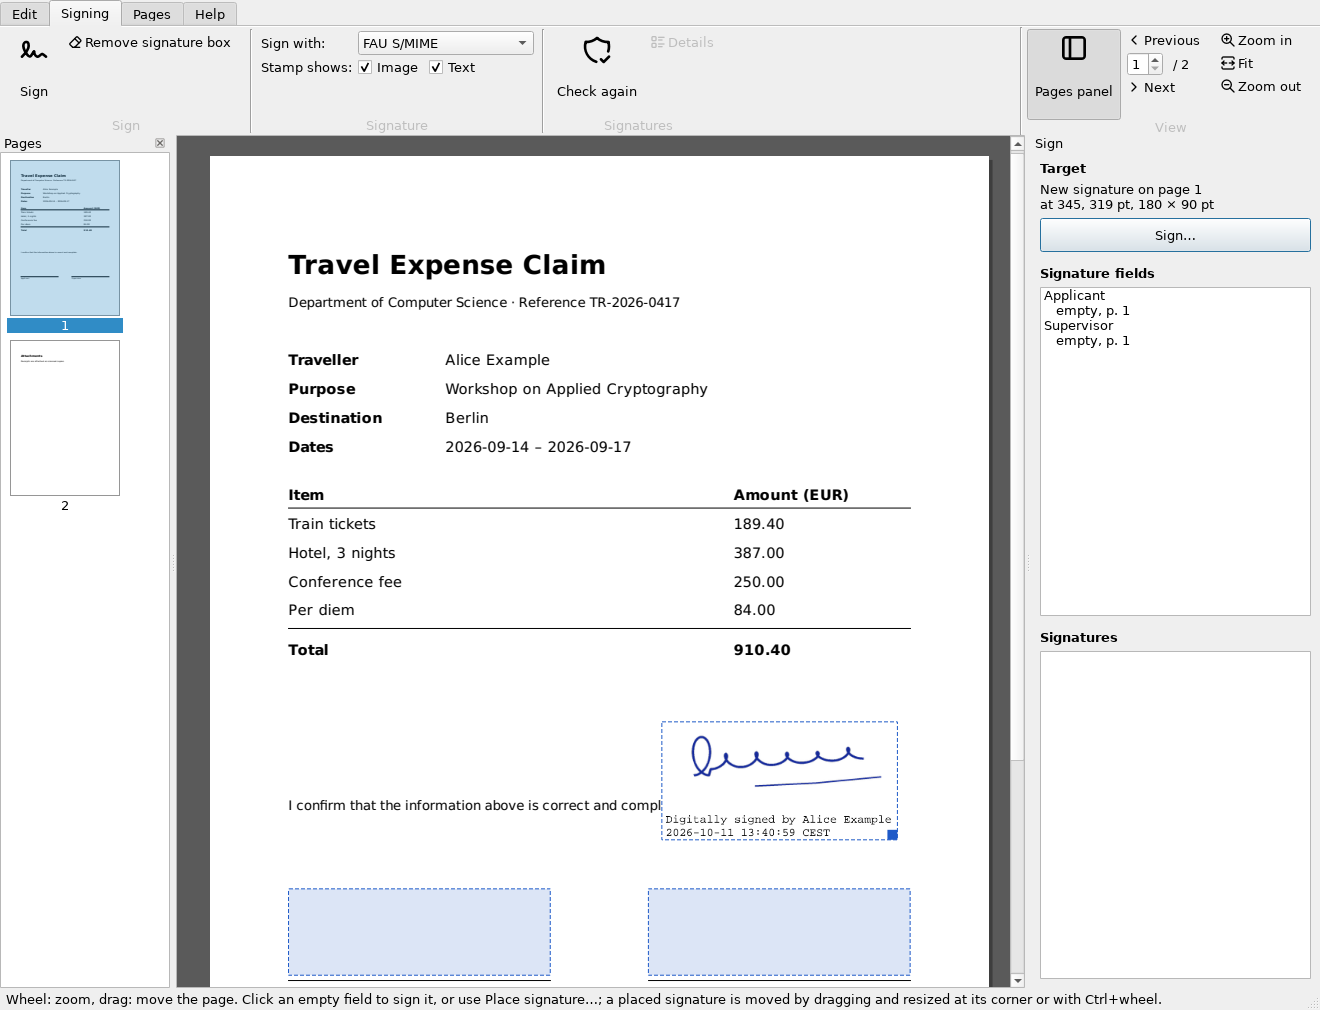
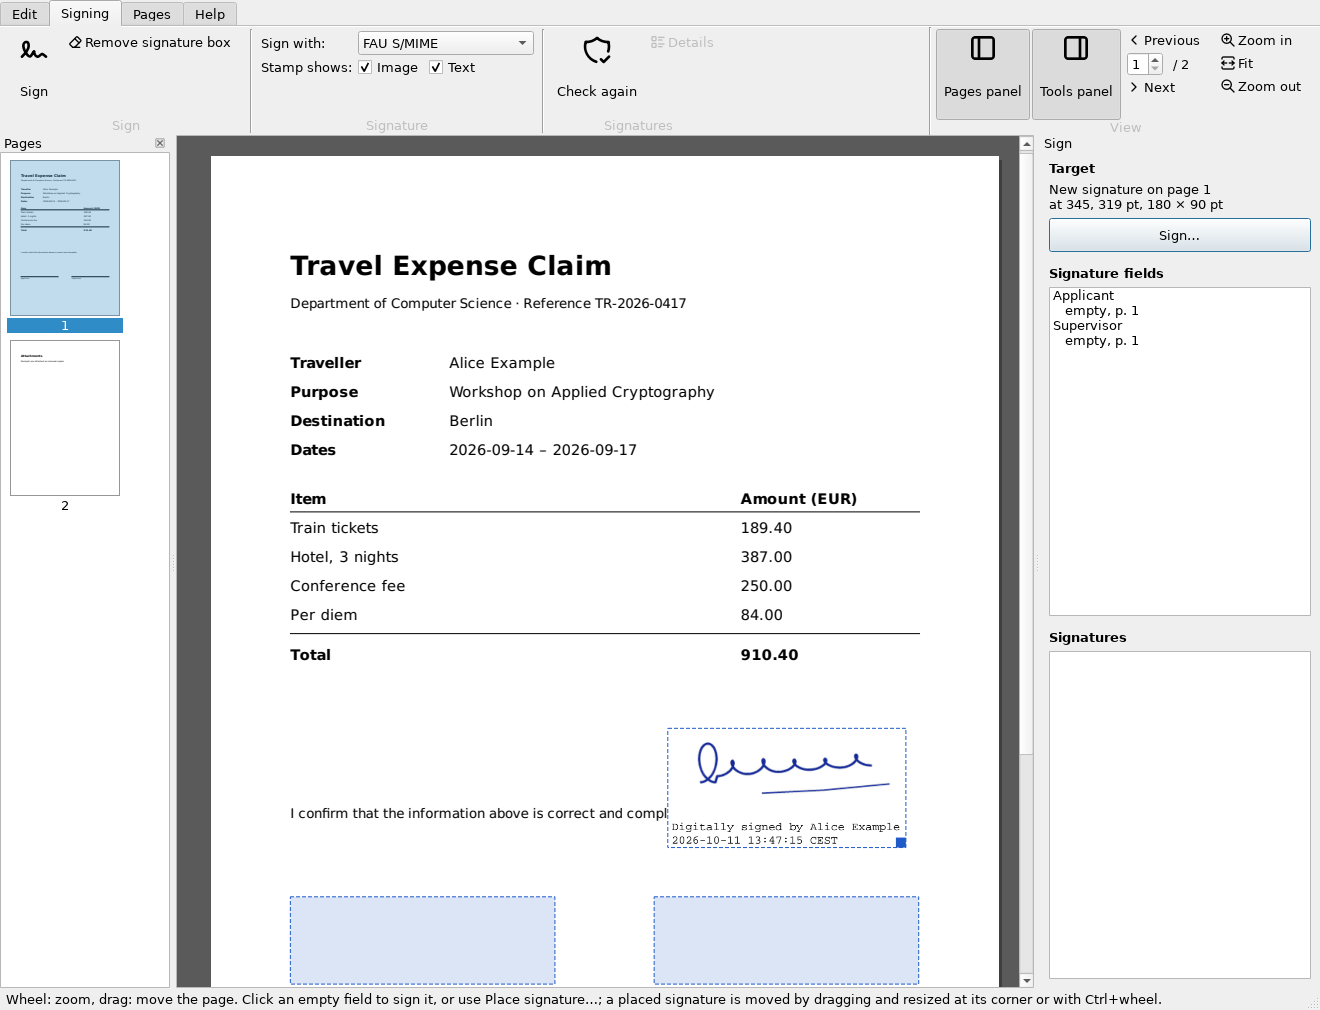
View: Tools panel toggle; both side panels on/off on their own
Next to Pages panel (left), the View group gets Tools panel (right: the
form on Edit, signing on Signing). Each can be hidden on its own, and
both choices are remembered for the next start (gui.json).

diff --git a/src/slim_pdf/gui/app.py b/src/slim_pdf/gui/app.py
@@ -460,17 +460,27 @@ class MainWindow(QMainWindow):
         panel.setIcon(ribbon.icon("layout-sidebar"))
         panel.setText(_("Pages panel"))
         panel.setToolTip(_("Show or hide the page thumbnails on the left"))
+        self.pages_dock.setVisible(state.flag("pages_panel"))
+        panel.toggled.connect(lambda on: state.set_flag("pages_panel", on))
+        # the right-hand panel (form, signing) on the tabs that have one
+        self.tools_panel_act = QAction(ribbon.icon("layout-sidebar-right"), _("Tools panel"),
+                                       self, checkable=True)
+        self.tools_panel_act.setToolTip(_("Show or hide the panel on the right (the form "
+                                          "on Edit, signing on Signing)"))
+        self.tools_panel_act.setChecked(state.flag("tools_panel"))
+        self.tools_panel_act.toggled.connect(self._tools_panel_toggled)
         spin = QWidget()  # the page number box with " / count"
         row = QHBoxLayout(spin)
         row.setContentsMargins(4, 0, 4, 0)
         row.addWidget(self.page_spin)
         row.addWidget(self.page_count)
-        rb.set_view_controls(_("View"), [panel], [
+        rb.set_view_controls(_("View"), [panel, self.tools_panel_act], [
             [self.prev_act, spin, self.next_act],
             [self.zoom_in_act, self.fit_act, self.zoom_out_act],
         ])
         rb.refit()
         rb.currentChanged.connect(self._ribbon_tab_changed)
+        self._ribbon_tab_changed(rb.currentIndex())  # the remembered panel choice
         self.setMenuWidget(rb)  # where the menu bar would be
 
     @staticmethod
@@ -592,9 +602,13 @@ class MainWindow(QMainWindow):
 
     SIDE_PANELS = {EDIT_TAB: N_("Form"), SIGN_TAB: N_("Sign")}  # ribbon tab -> panel title
 
+    def _tools_panel_toggled(self, on: bool) -> None:
+        state.set_flag("tools_panel", on)
+        self._ribbon_tab_changed(self.ribbon.currentIndex())
+
     def _ribbon_tab_changed(self, index: int) -> None:
         title = self.SIDE_PANELS.get(index)
-        self.side_dock.setVisible(title is not None)
+        self.side_dock.setVisible(title is not None and self.tools_panel_act.isChecked())
         if index != EDIT_TAB:  # a form field is marked only while the form is edited
             self.view.highlight_form_field(None)
         if title is not None:

diff --git a/tests/test_gui_tabs.py b/tests/test_gui_tabs.py
@@ -143,3 +143,31 @@ def test_drop_pdf_files_onto_the_window(window, tmp_path, qapp):
                             Qt.LeftButton, Qt.NoModifier)
     window.dragEnterEvent(enter)
     assert not enter.isAccepted()
+
+
+def test_side_panels_can_be_hidden_independently(window, fill_pdf, qapp, profile):
+    """View: Pages panel (left) and Tools panel (right) are shown or hidden
+    on their own; the choice is remembered for the next start."""
+    from slim_pdf.config import Config
+
+    window.open(fill_pdf)
+    left, right = window.pages_dock, window.side_dock
+    assert left.isVisible() and right.isVisible()  # Edit: the form panel
+    window.tools_panel_act.trigger()
+    assert left.isVisible() and not right.isVisible()
+    window.show_tab(gui_app.SIGN_TAB)  # hidden on Signing too
+    assert not right.isVisible()
+    window.pages_dock.toggleViewAction().trigger()
+    assert not left.isVisible() and not right.isVisible()
+    window.tools_panel_act.trigger()
+    assert not left.isVisible() and right.isVisible()
+    window.show_tab(2)  # Pages: no tools panel there anyway
+    assert not right.isVisible()
+    window.show_tab(gui_app.EDIT_TAB)
+    window.tools_panel_act.trigger()  # off again, then a new window remembers
+    other = gui_app.MainWindow(Config(certs={"alice": profile}, default="alice"))
+    other.show()
+    qapp.processEvents()
+    assert not other.tools_panel_act.isChecked() and not other.side_dock.isVisible()
+    assert not other.pages_dock.isVisible()
+    other.close()

diff --git a/src/slim_pdf/gui/state.py b/src/slim_pdf/gui/state.py
@@ -1,5 +1,5 @@
-"""What the GUI remembers between runs that isn't a setting: for now, the
-folder of the last opened file. A small JSON file in the user state folder
+"""What the GUI remembers between runs that isn't a setting: the folder of
+the last opened file, and whether the side panels are shown. A small JSON file in the user state folder
 (``$SLIM_PDF_STATE_DIR`` overrides it); unreadable or missing means "nothing
 remembered", and failing to write it is ignored."""
 
@@ -43,4 +43,17 @@ def last_folder() -> str:
 def remember_folder(folder: Path) -> None:
     data = _load()
     data["last_folder"] = str(Path(folder).resolve())
+    _save(data)
+
+
+def flag(name: str, default: bool = True) -> bool:
+    """A remembered on/off choice (e.g. whether a panel is shown)."""
+    value = _load().get("flags", {}).get(name, default)
+    return value if isinstance(value, bool) else default
+
+
+def set_flag(name: str, value: bool) -> None:
+    data = _load()
+    flags = data.get("flags")
+    data["flags"] = {**(flags if isinstance(flags, dict) else {}), name: bool(value)}
     _save(data)

diff --git a/tests/test_gui.py b/tests/test_gui.py
@@ -1543,7 +1543,8 @@ def test_ribbon_tabs_and_about(window, monkeypatch):
     signing = [b.defaultAction() for b in rb.tab_page(1).findChildren(QtWidgets.QToolButton)]
     # viewing controls are a group at the ribbon's right end, the same on every tab
     view = [b.defaultAction() for b in rb.view_controls.findChildren(QtWidgets.QToolButton)]
-    assert view == [window.pages_dock.toggleViewAction(), window.prev_act, window.next_act,
+    assert view == [window.pages_dock.toggleViewAction(), window.tools_panel_act,
+                    window.prev_act, window.next_act,
                     window.zoom_in_act, window.fit_act, window.zoom_out_act]
     assert rb.view_controls.title.text() == "View"
     assert rb.view_controls.isAncestorOf(window.page_spin)

diff --git a/docs/gui.md b/docs/gui.md
@@ -36,7 +36,9 @@ guide show the English version.
   * *Help:* **Documentation** (`F1`, this guide online), **About Slim PDF**
     (version, and the libraries it is built on).
   * *View*, a group at the ribbon's right end, the same on every tab:
-    **Pages panel** (show or hide the thumbnails); **Previous**, the page
+    **Pages panel** (show or hide the thumbnails on the left), **Tools
+    panel** (show or hide the panel on the right: the form, signing), each on
+    its own and remembered for the next start; **Previous**, the page
     number, **Next** (`PgUp`/`PgDown`, or type the number); **Zoom in**,
     **Fit** (fit width), **Zoom out** (`Ctrl +`/`Ctrl -`).
 
